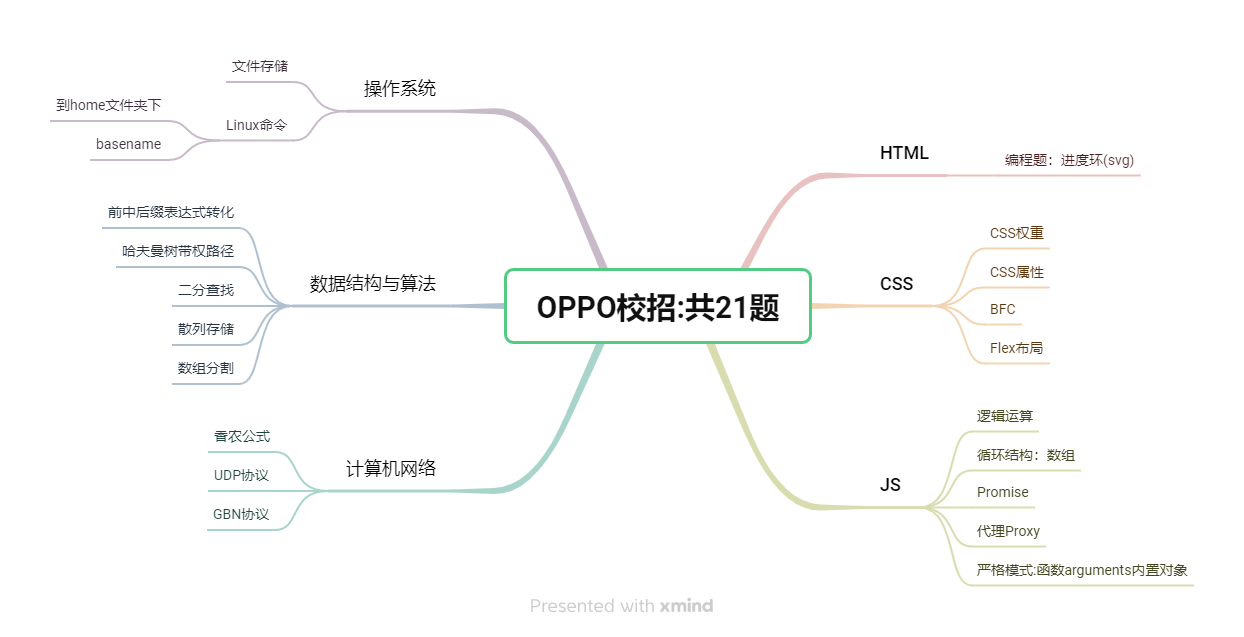
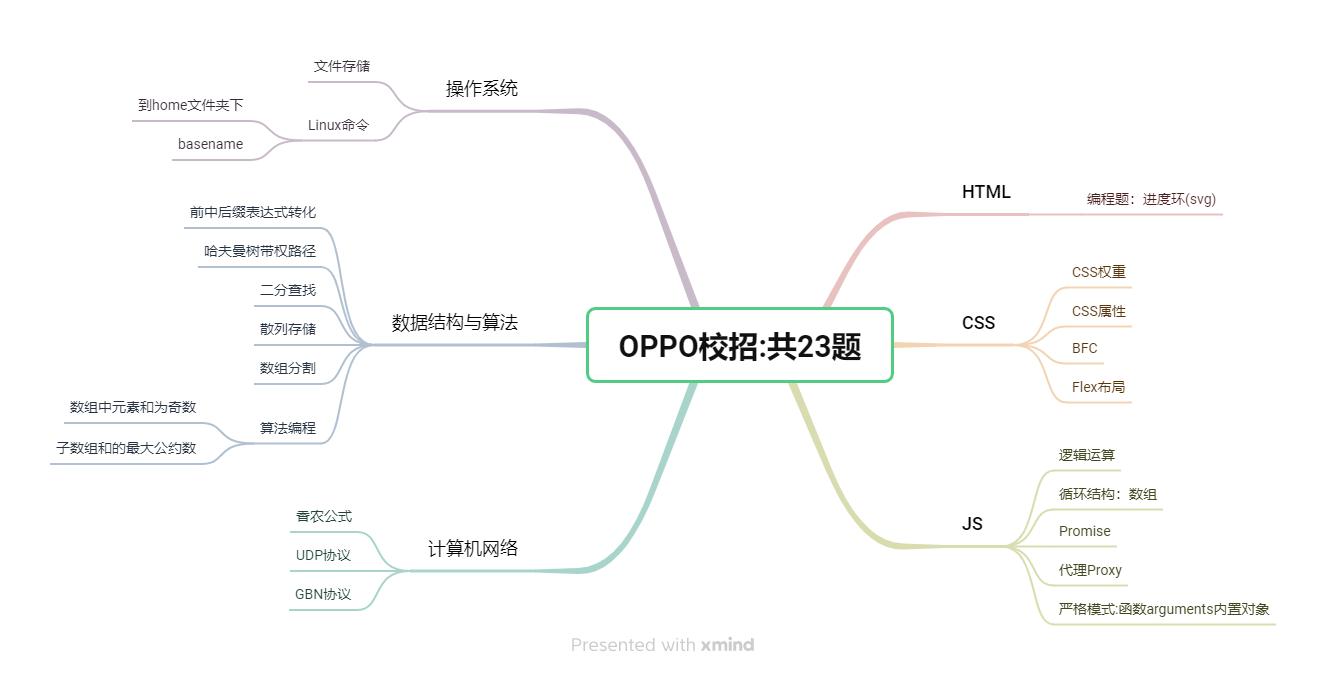
写博客

diff --git a/source/_posts/笔试真题.md b/source/_posts/笔试真题.md
@@ -10,7 +10,7 @@ cover: 缩略图.jpg
 
 >**考点分析**
 
-
+![](考点分析.png)
 
 ## CSS权重
 
@@ -957,12 +957,12 @@ void (async function () {
 
 ---
 
-## 数据结构与算法
->**题号**：0021
+## 数据结构与算法：子数组和
+>**题号**：0023
 >
 >**来源**：OPPO
 >
->**知识点**：散列存储
+>**知识点**：子数组和的最大公约数
 >
 >**时间**: 2024-07-28
 
